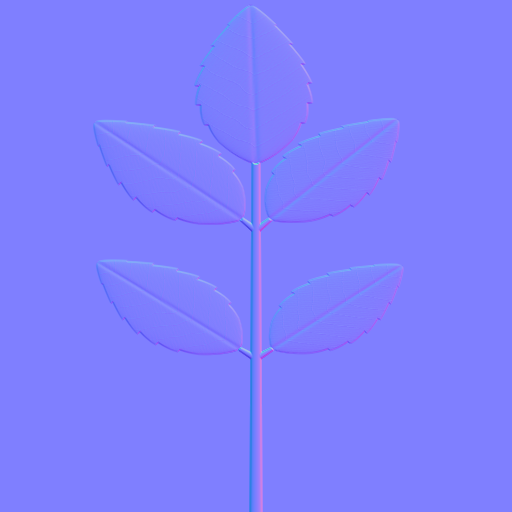
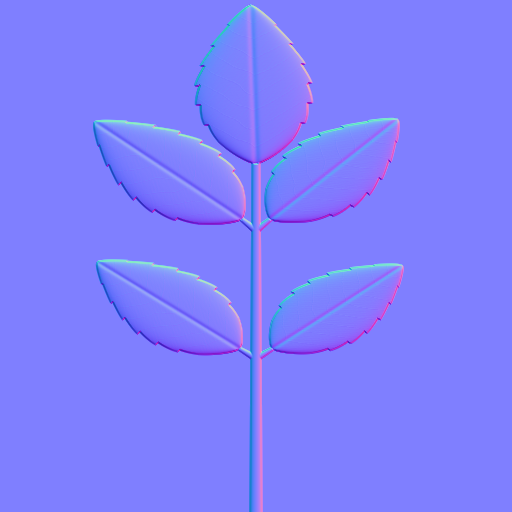
3Dの試作：ばらの葉のカードのノーマルマップを強く（ふちのきわで急に下がるふくらみを高く）
Claude-Session: https://claude.ai/code/session_01JdcgfQjaFqLCauQk6j3Pfy

diff --git a/proto3d/make_flowers.py b/proto3d/make_flowers.py
@@ -111,7 +111,7 @@ def leaf_card_texture(path, src, size=512, seed=7, nsrc=None, npath=None):
         m = np.clip((hw * saw - np.abs(w)) * L / px + .5, 0, 1) * (u > 0) * (u < 1)
         sx = np.clip(((w / (W * 1.05) + .5) * 255).astype(int), 0, 255); sy = np.clip(((1 - uc) * 255).astype(int), 0, 255); c = S[sy, sx] * tone * (1 - .12 * np.abs(w) / (W / 2))[..., None]   # ふちは少し暗く
         col[:] = col * (1 - m[..., None]) + c * m[..., None]; al[:] = np.maximum(al, m)
-        a_ = np.clip(np.abs(w) / np.maximum(hw, 1e-6), 0, 1); h = (1 - a_ ** 2) ** .5 * .022 * L * np.sin(np.pi * uc) ** .3 - .006 * L * np.exp(-(w / (.025 * W)) ** 2)   # ふくらみ：ふちへ丸く下がる（厚みに見せる）・まん中のすじは少しくぼむ
+        a_ = np.clip(np.abs(w) / np.maximum(hw, 1e-6), 0, 1); h = (1 - a_ ** 3) ** .5 * .05 * L * np.sin(np.pi * uc) ** .25 - .008 * L * np.exp(-(w / (.025 * W)) ** 2)   # ふちのきわで、急に下がる（厚みのふち）   # ふくらみ：ふちへ丸く下がる（厚みに見せる）・まん中のすじは少しくぼむ
         HT[:] = HT * (1 - m) + h * m
         if NS is not None: nt = NS[sy, sx]; DX[:] = DX * (1 - m) + (nt[..., 0] * n[0] + nt[..., 1] * d[0]) * m; DY[:] = DY * (1 - m) + (nt[..., 0] * n[1] + nt[..., 1] * d[1]) * m   # 葉脈のかたむきを、小さな葉の向きにまわす
     seg((0, 0), (0, .8), .009, (62, 104, 46))
@@ -120,7 +120,7 @@ def leaf_card_texture(path, src, size=512, seed=7, nsrc=None, npath=None):
     leaflet((0, .68), rng.uniform(-.05, .05), .31, .58, 1.05)
     img = np.dstack([np.clip(col * 1.35, 0, 255), al * 255]).astype(np.uint8); Image.fromarray(img, 'RGBA').save(path)
     if npath:   # ノーマルマップ（OpenGL・+Y は絵の上）：形の高さのかたむき＋葉脈
-        gy, gx = np.gradient(HT, px); nx = -gx * .55 + DX * .5; ny = gy * .55 + DY * .5; nz = np.ones_like(nx); l = np.sqrt(nx ** 2 + ny ** 2 + nz ** 2)
+        gy, gx = np.gradient(HT, px); nx = -gx * .9 + DX * .4; ny = gy * .9 + DY * .4; nz = np.ones_like(nx); l = np.sqrt(nx ** 2 + ny ** 2 + nz ** 2)
         Image.fromarray((np.dstack([nx / l, ny / l, nz / l]) * 127.5 + 127.5).clip(0, 255).astype(np.uint8), 'RGB').save(npath)
 
 
